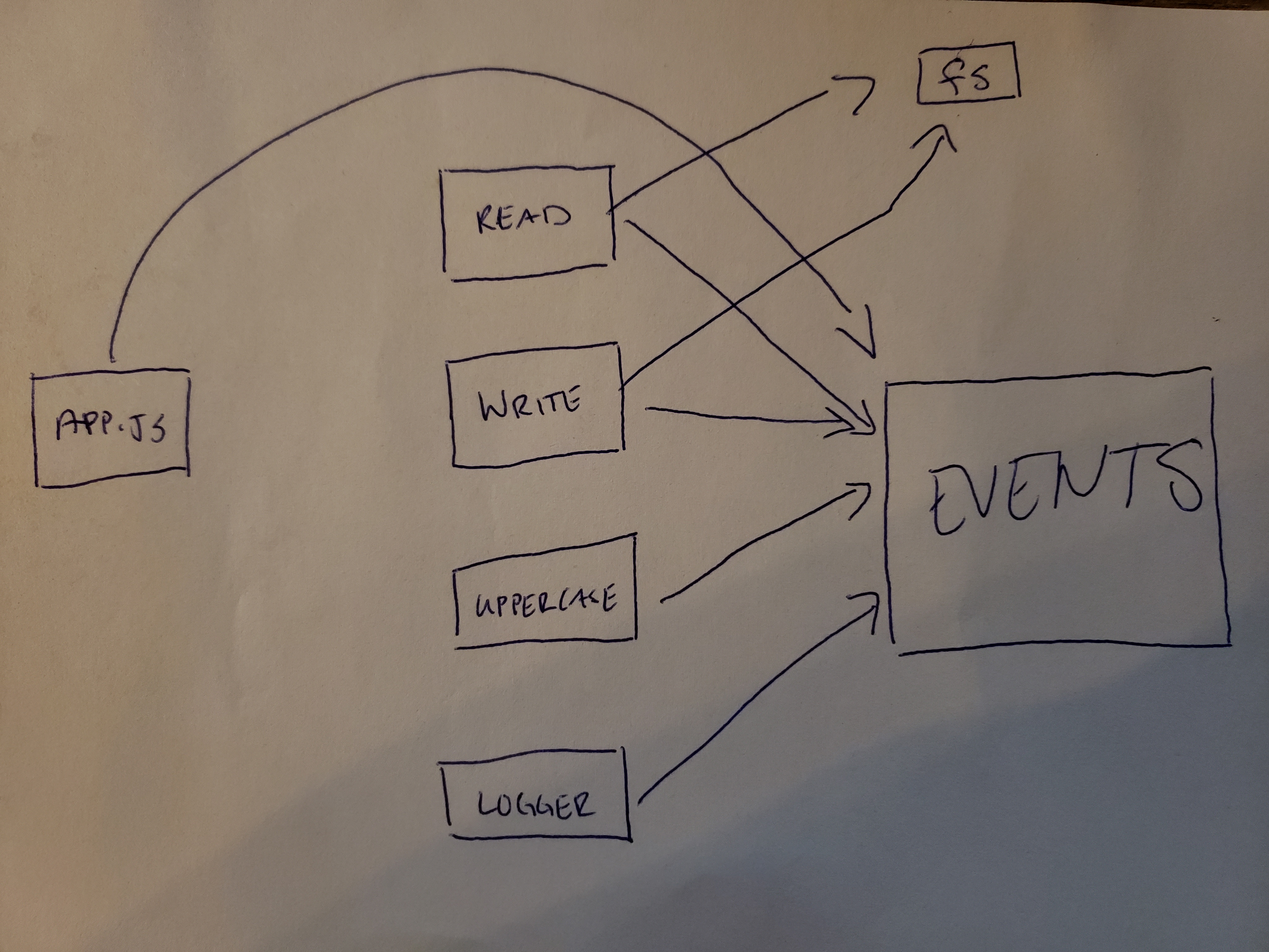
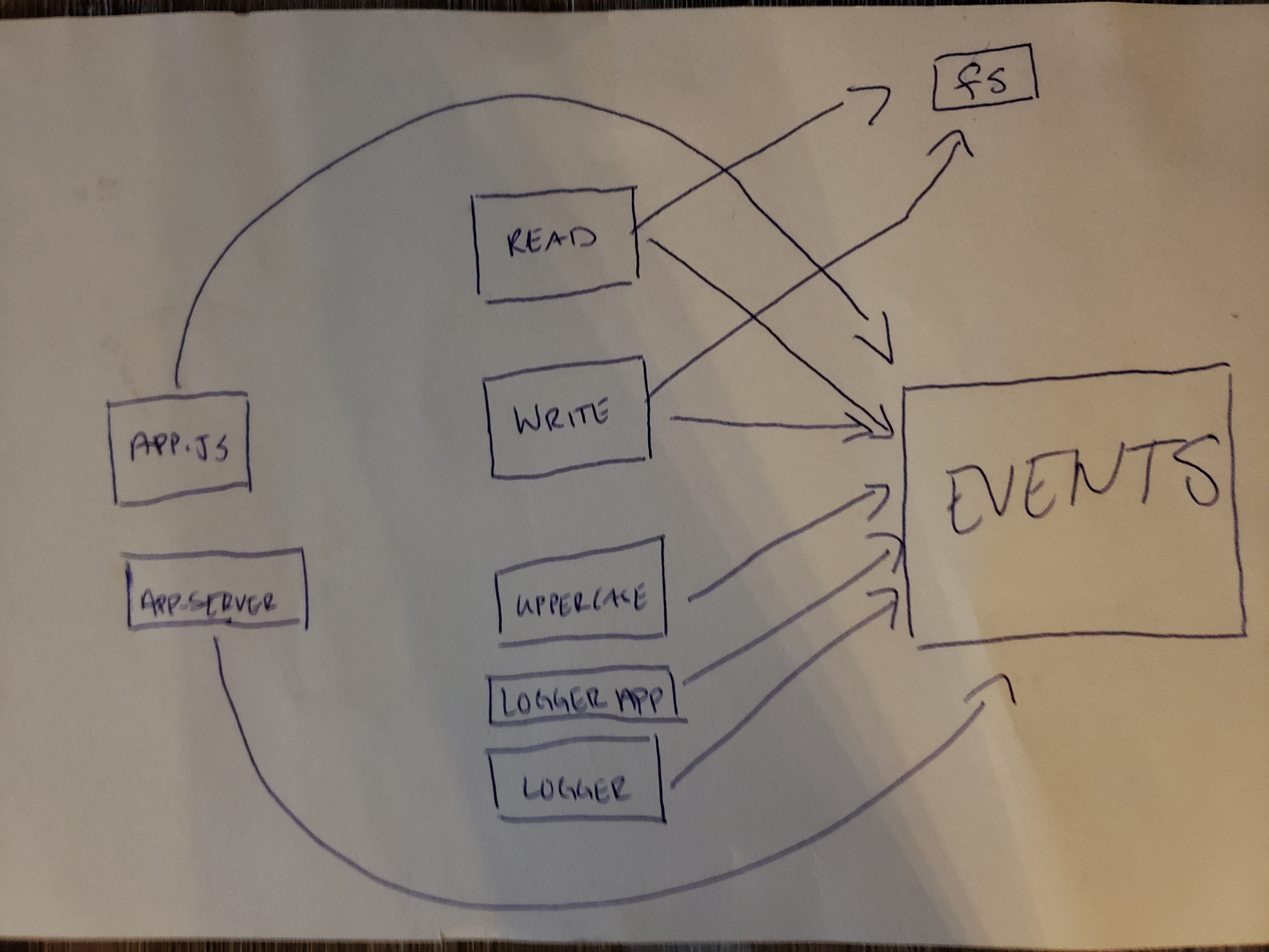
Test and lint are passing

diff --git a/__tests__/app.test.js b/__tests__/app.test.js
@@ -7,19 +7,40 @@ const events = require('../src/modules/events.js');
 require('../src/modules/read-file.js');
 require('../src/modules/write-file.js');
 require('../src/modules/uppercase.js');
-require('../src/modules/app-server-client.js');
+const serverClient = require('../src/modules/app-server-client.js');
+
+const mockedClient = {
+  connected: false,
+  on_calls: [],
+  write_calls: [],
+  connect() { this.connected = true; },
+  destroy() { this.connected = false; },
+  write(payload) { this.write_calls.push(payload); },
+  on(name, callback) { this.on_calls.push({name, callback}); },
+};
+serverClient(mockedClient);
 
 
 jest.mock('fs');
 
 describe('Event application tests', () => {
 
-  it('can ', () => {
-    const spy = sinon.spy();
-    const emitter = new EventEmitter();
-    emitter.on('read_done', spy);
-    emitter.emit('read_done');
-    expect(spy.called).toBe(true);
+  beforeEach(async () => {
+    mockedClient.connected = false;
+    mockedClient.on_calls = [];
+    mockedClient.write_calls = [];
+  });
+
+  it('can broadcast save', async () => {
+    await events.emit('write_done', 'SUCCESS');
+    expect(mockedClient.write_calls.length).toBe(1);
+    expect(JSON.parse(mockedClient.write_calls[0]).payload).toEqual('SUCCESS');
+  });
+
+  it('can broadcast error', async () => {
+    await events.emit('read_error', 'failed!');
+    expect(mockedClient.write_calls.length).toBe(1);
+    expect(JSON.parse(mockedClient.write_calls[0]).payload).toEqual('failed!');
   });
 
   it('can log a file', () => {
